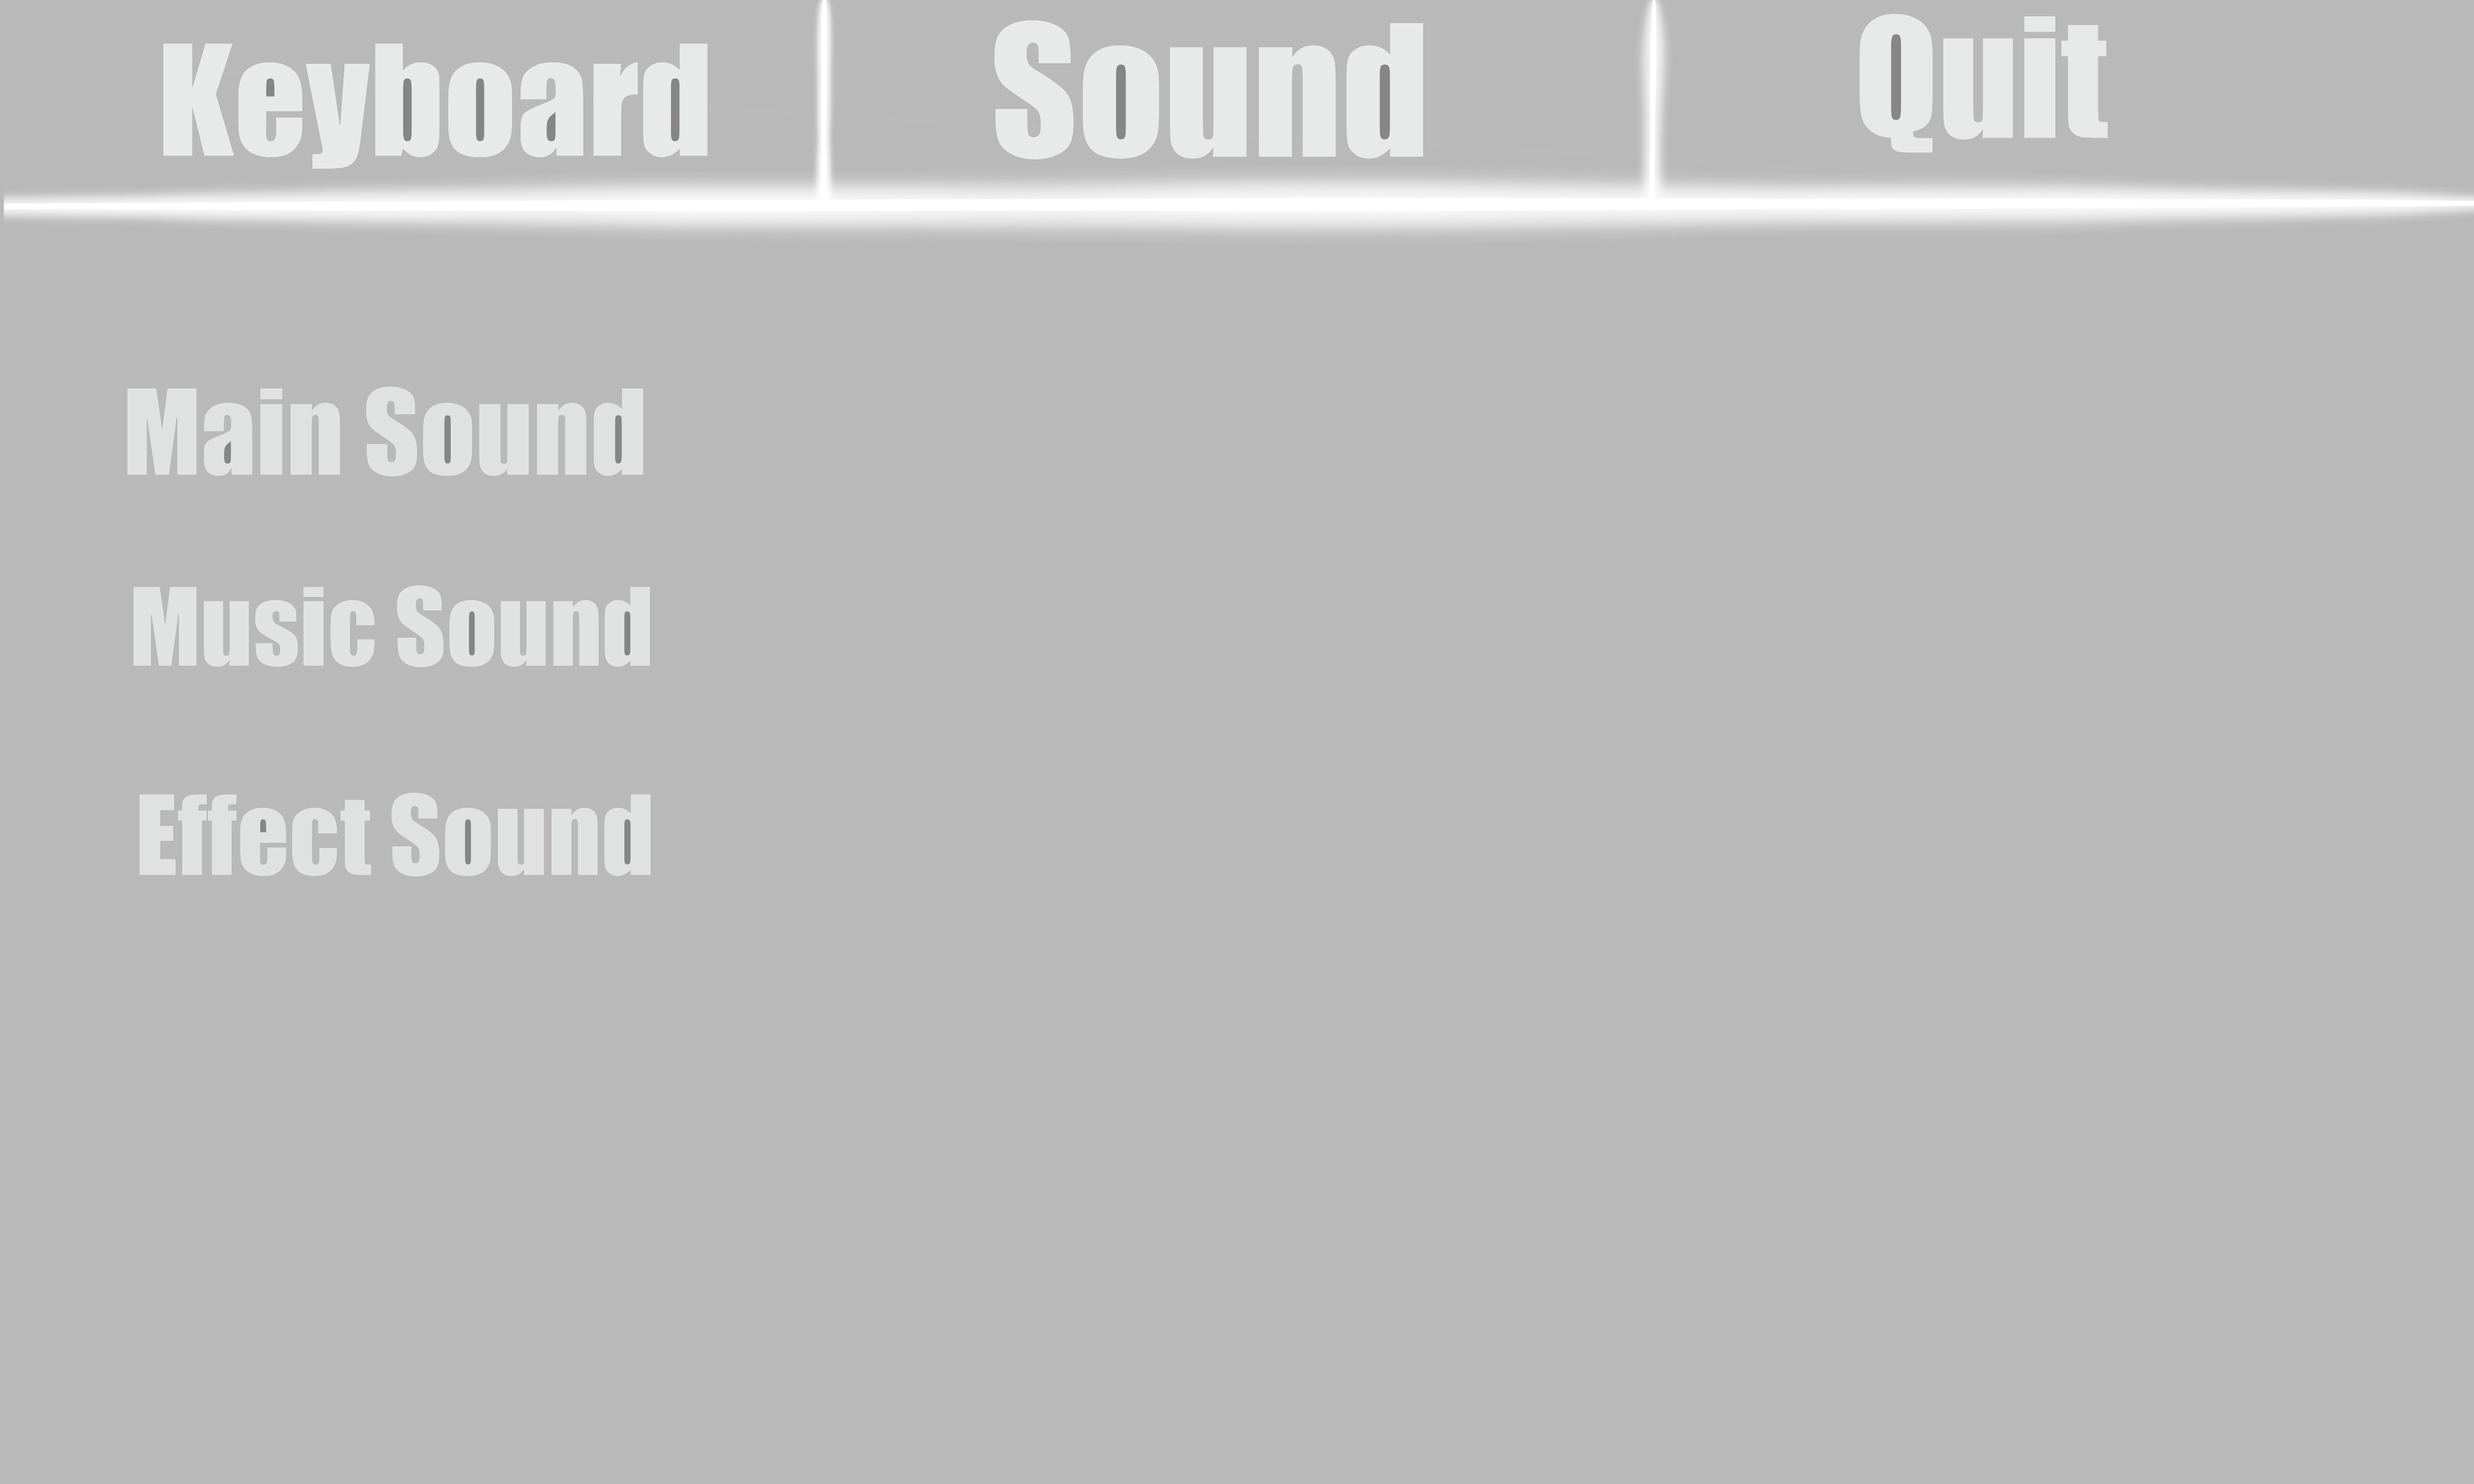
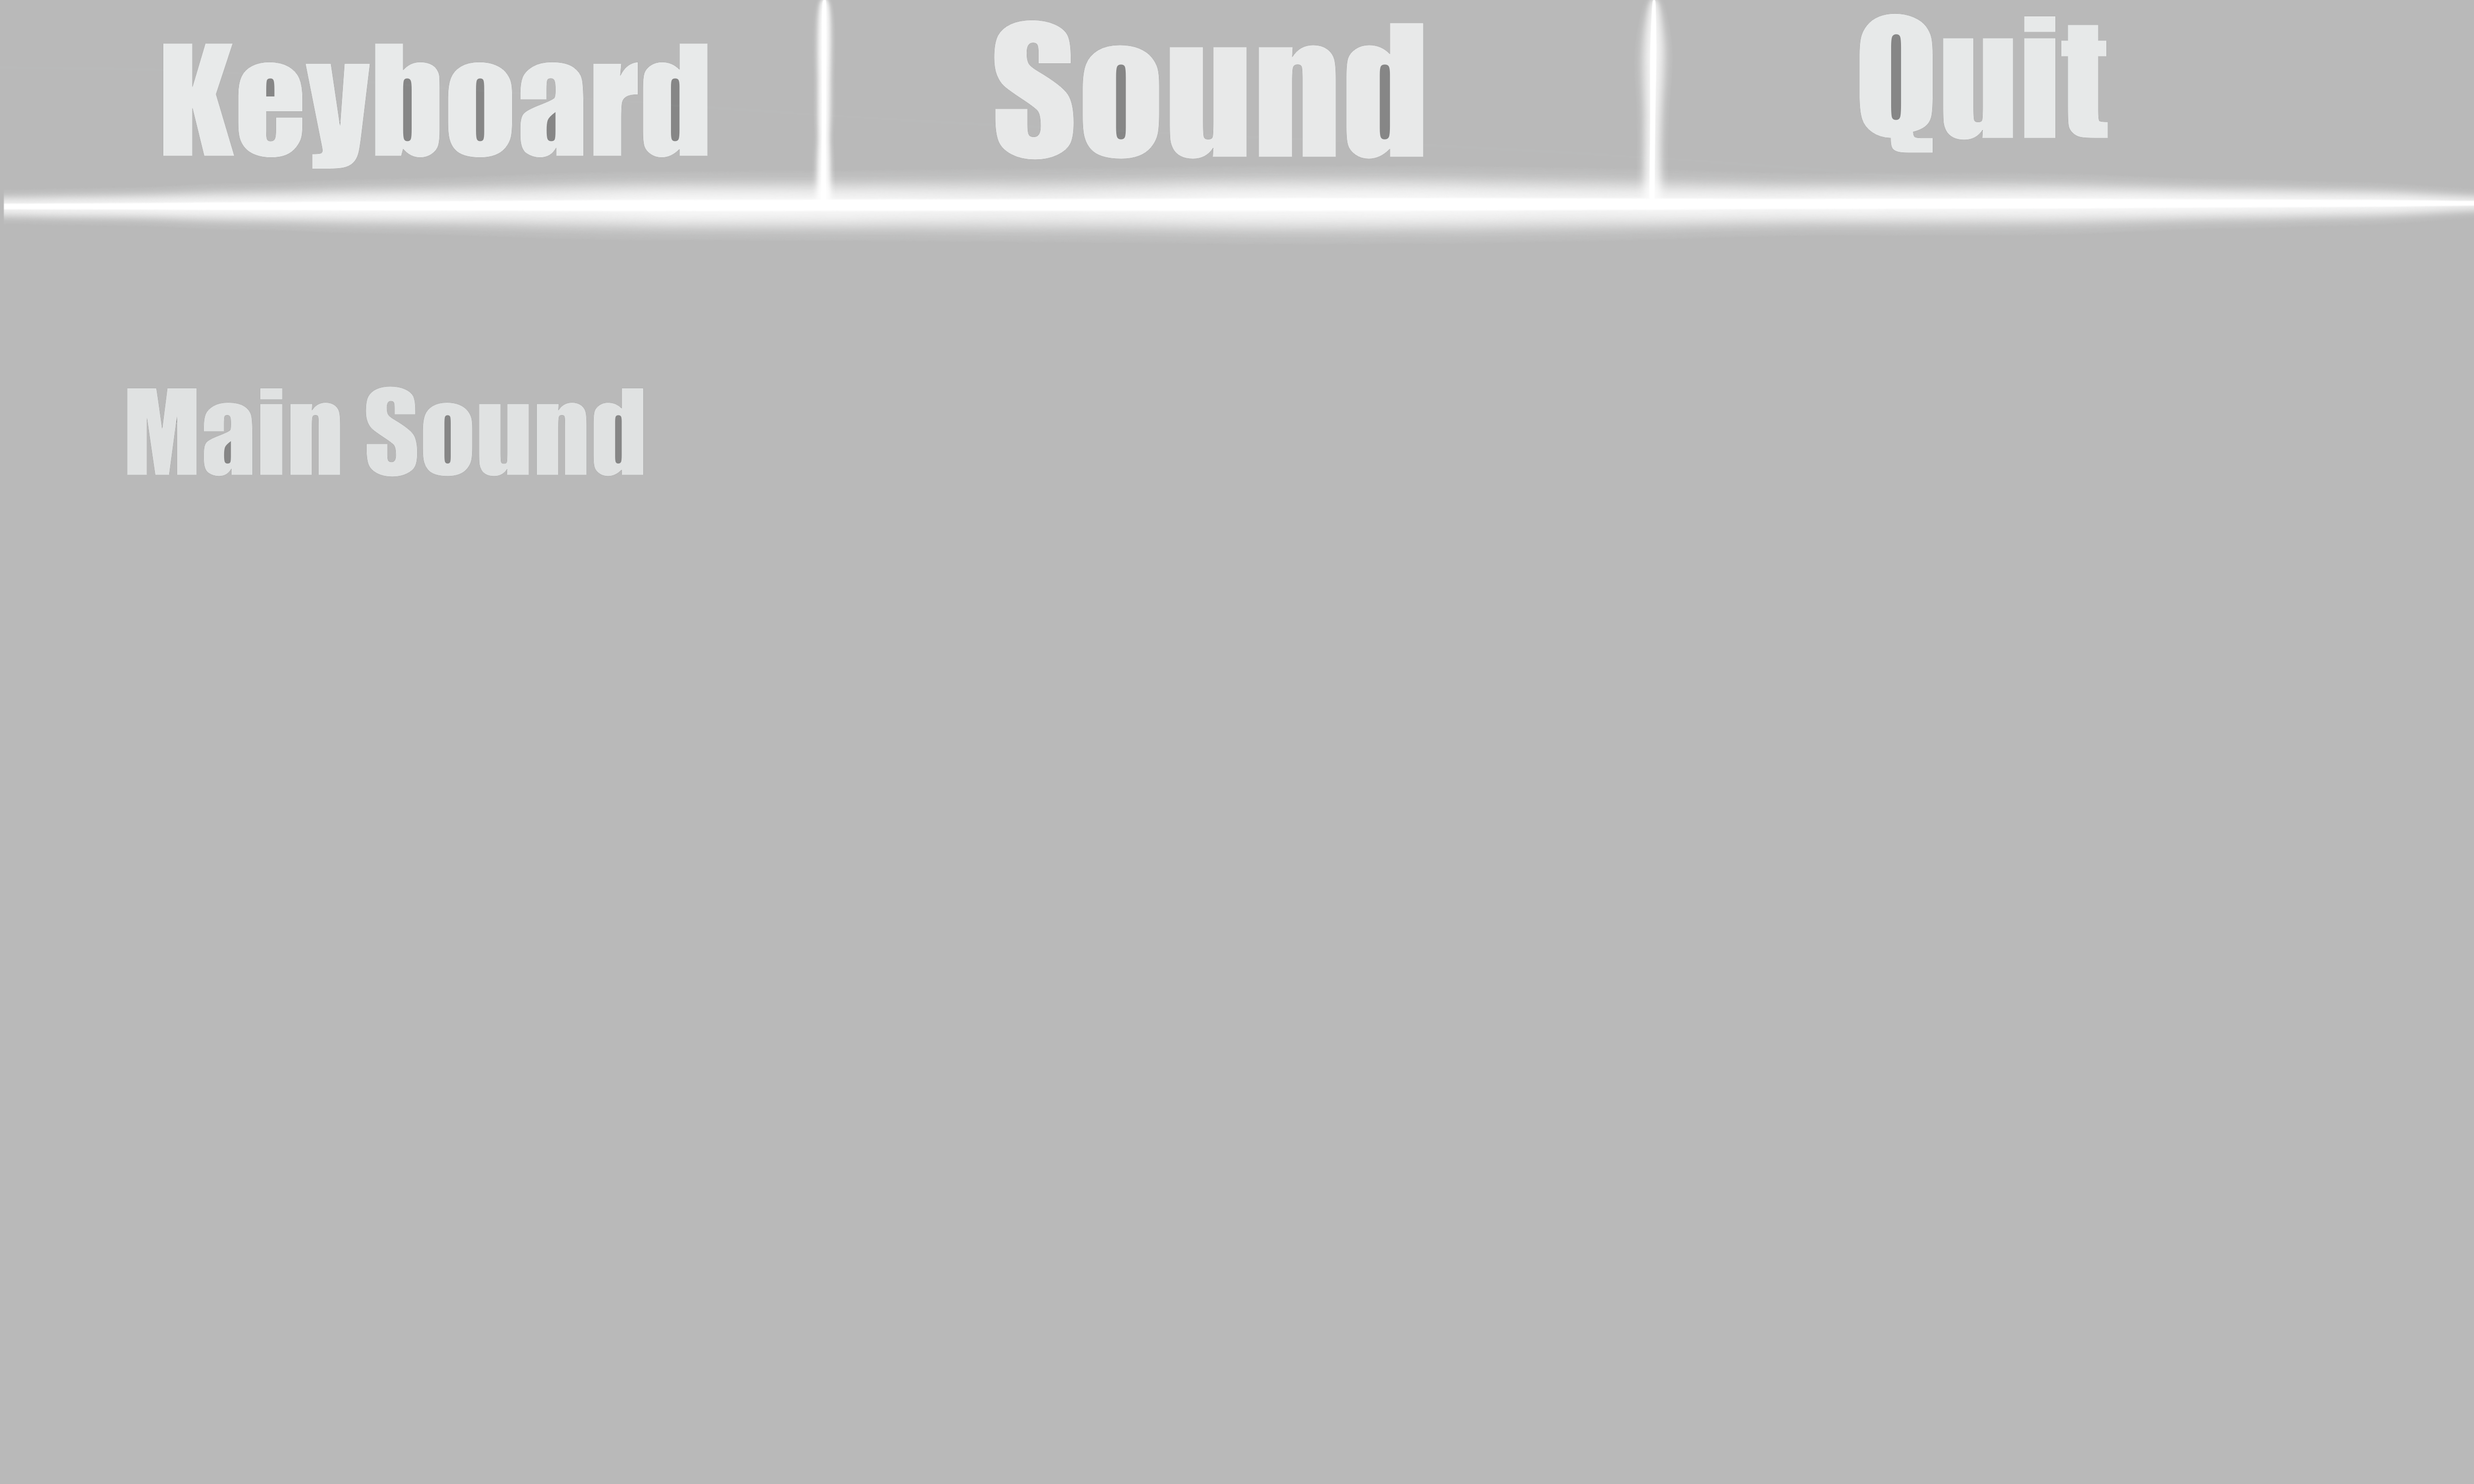
游玩怪物猎人世界导致的

Changed region(s): [[0.0312, 0.372, 0.2808, 0.465], [0.0312, 0.527, 0.2808, 0.589]]

diff --git a/My project/Assets/script/Wyz/gamestart.cs b/My project/Assets/script/Wyz/gamestart.cs
@@ -9,14 +9,11 @@ public class gamestart : MonoBehaviour
 
     public int sceneIndex,nowscence;
     public flag flag;
+    public GameObject UI;
     // Start is called before the first frame update
     void Start()
     {
         sceneIndex = 2;
-        if (flag != null)
-        { 
-        // flag.GameLevel = nowscence;
-        }
     }
 
     // Update is called once per frame
@@ -35,9 +32,13 @@ public class gamestart : MonoBehaviour
         {
             Application.Quit();
         }
-        if (CompareTag("restart"))
+        if (CompareTag("sett"))
         {
-            SceneManager.LoadScene(SceneManager.GetActiveScene().name);
+            if (UI != null)
+            { 
+                 UI.SetActive(true);
+            }
         }
+  
     }
 }

diff --git a/My project/Assets/script/Wyz/gamestartbt.cs b/My project/Assets/script/Wyz/gamestartbt.cs
@@ -1,0 +1,18 @@
+using System.Collections;
+using System.Collections.Generic;
+using UnityEngine;
+
+public class gamestartbt : MonoBehaviour
+{
+    // Start is called before the first frame update
+    void Start()
+    {
+        
+    }
+
+    // Update is called once per frame
+    void Update()
+    {
+        
+    }
+}
